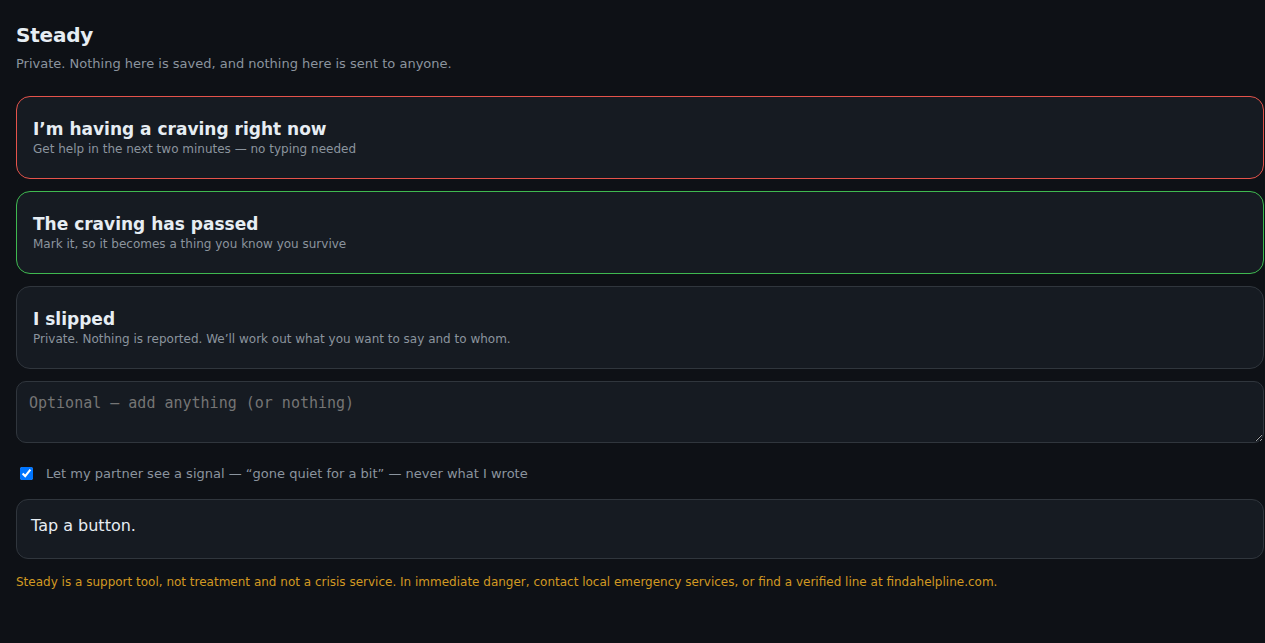
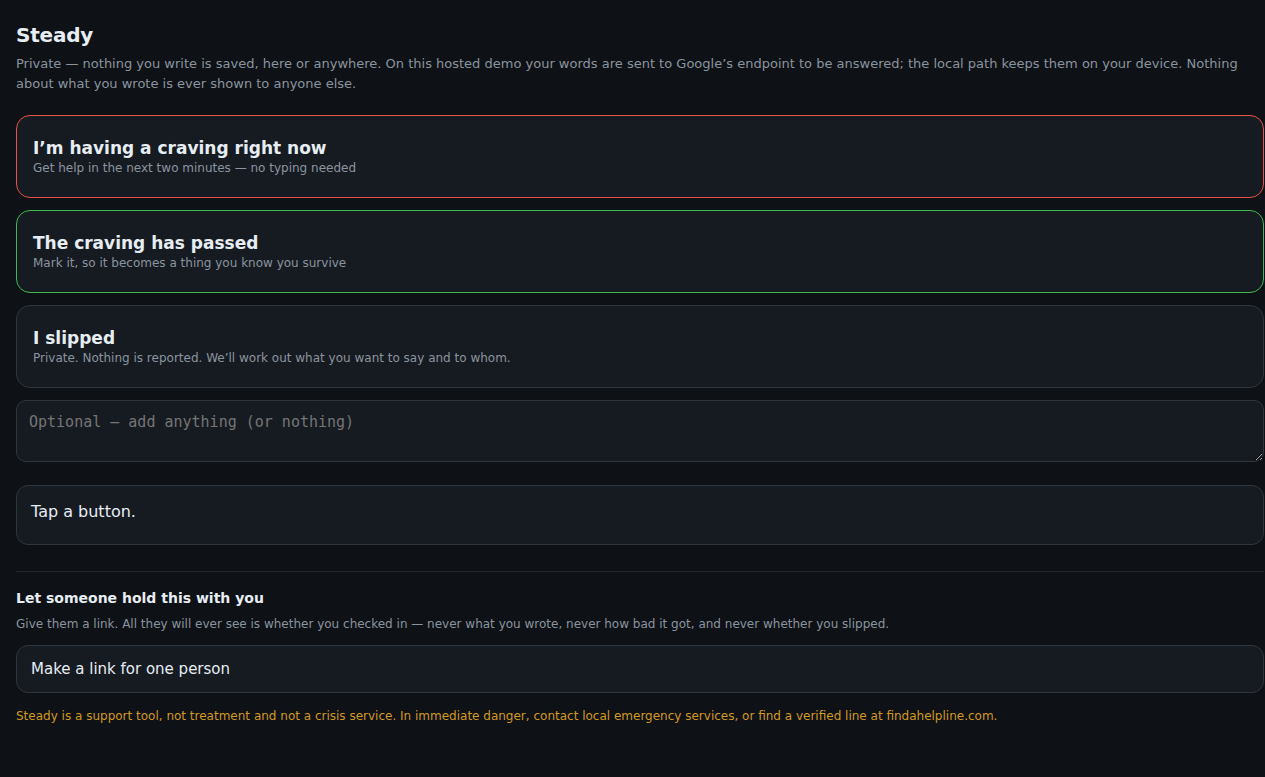
Commit the real two-device screenshots and describe the built mechanism the post used to only promise

diff --git a/DEV-POST.md b/DEV-POST.md
@@ -29,9 +29,19 @@ That's her information, and a repo is permanent.
 
 But the thing I actually built is an absence.
 
-**The person supporting you gets a signal, never a transcript.** If she turns it on, all I would
-ever see is something like *"she's gone quiet for a bit."* Never what she wrote, never how bad it
-got, never whether she slipped.
+**The person supporting you gets a signal, never a transcript — and that part is built, not
+described.** She taps *"make a link for one person"* and hands it to whoever she chooses. On his
+phone it is a different page: a state line — *"she has gone quiet for a bit"* — and nothing else.
+No buttons, no notes, no history, no transcript to scroll.
+
+The only thing the server ever holds per link is **the time of her last check-in.** Not her words,
+not which button she pressed, not a count of anything. I checked what a supporter's phone actually
+receives: two fields, `signal` and `minutes`. There is no third field, and there is nowhere to put
+one without deleting this paragraph.
+
+And **the slip button deliberately never reports at all** — not even a timestamp. If it did, then
+"checked in" and "gone quiet" would start to *mean* something, and the moment a supporter can infer
+a slip from timing, the honest button is dead.
 
 **Steady keeps no session log.** Not "we don't look at it" — there is nothing to look at. A tool
 that recorded this would be used dishonestly within a week, because that is what people do when
@@ -57,6 +67,12 @@ That screenshot is a real reply, word for word:
 
 That second line is the entire design on one screen. She gets the help. He gets a signal with no
 content in it. Nobody had to decide whether to be honest.
+
+![The supporter's own page: a state line, a time, and no buttons](https://raw.githubusercontent.com/Zaygal/steady/main/docs/demo-3-supporter.png)
+
+That is the whole of what he ever sees. Open the link on a second phone and you can watch it
+change when she taps a button — it is a different page, for a different person, serving a
+different payload. Nothing about that screen is a mockup.
 
 **Honest performance note:** a reply typically takes **30–60 seconds**, because Gemma 4 reasons before it
 answers. The service is always-on, so there is no cold start, and the model is warmed at boot —
